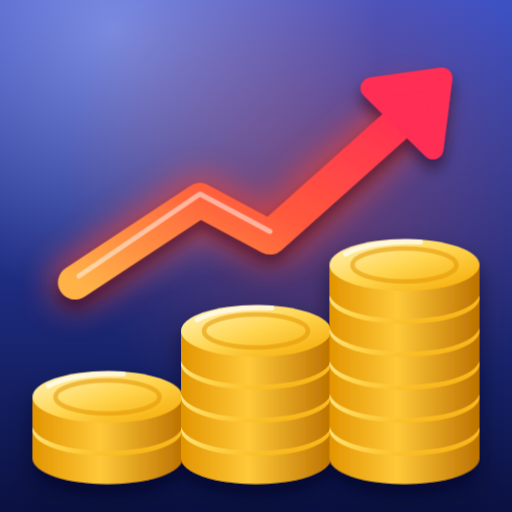
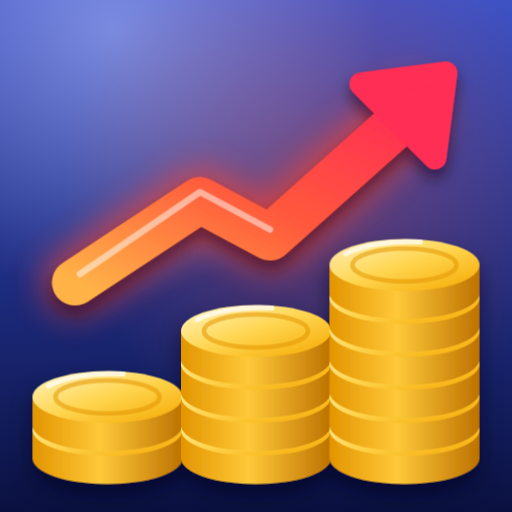
圖示的上升箭頭加粗，版本號更新讓瀏覽器抓新圖
Claude-Session: https://claude.ai/code/session_016kPHA1roJy7sPBC76sUMGq

Changed region(s): [[0.0938, 0.0938, 0.9062, 0.5938]]

diff --git a/index.html b/index.html
@@ -5,13 +5,13 @@
 <meta name="viewport" content="width=device-width, initial-scale=1">
 <title>我的股票帳本</title>
 <!-- 圖示（深藍底金幣階梯＋發光上升箭頭）。換圖時把 ?v= 的版本號改掉，瀏覽器才會抓新圖；manifest.webmanifest 裡的也要一起改 -->
-<link rel="icon" href="icon.svg?v=20261115" type="image/svg+xml">
-<link rel="icon" href="favicon-32.png?v=20261115" sizes="32x32" type="image/png">
-<link rel="apple-touch-icon" href="apple-touch-icon.png?v=20261115">
-<link rel="apple-touch-icon" sizes="152x152" href="apple-touch-icon-152.png?v=20261115">
-<link rel="apple-touch-icon" sizes="167x167" href="apple-touch-icon-167.png?v=20261115">
-<link rel="apple-touch-icon" sizes="180x180" href="apple-touch-icon.png?v=20261115">
-<link rel="manifest" href="manifest.webmanifest?v=20261115">
+<link rel="icon" href="icon.svg?v=20261115b" type="image/svg+xml">
+<link rel="icon" href="favicon-32.png?v=20261115b" sizes="32x32" type="image/png">
+<link rel="apple-touch-icon" href="apple-touch-icon.png?v=20261115b">
+<link rel="apple-touch-icon" sizes="152x152" href="apple-touch-icon-152.png?v=20261115b">
+<link rel="apple-touch-icon" sizes="167x167" href="apple-touch-icon-167.png?v=20261115b">
+<link rel="apple-touch-icon" sizes="180x180" href="apple-touch-icon.png?v=20261115b">
+<link rel="manifest" href="manifest.webmanifest?v=20261115b">
 <meta name="apple-mobile-web-app-title" content="股票帳本">
 <meta name="theme-color" content="#1e2c80">
 <script>
